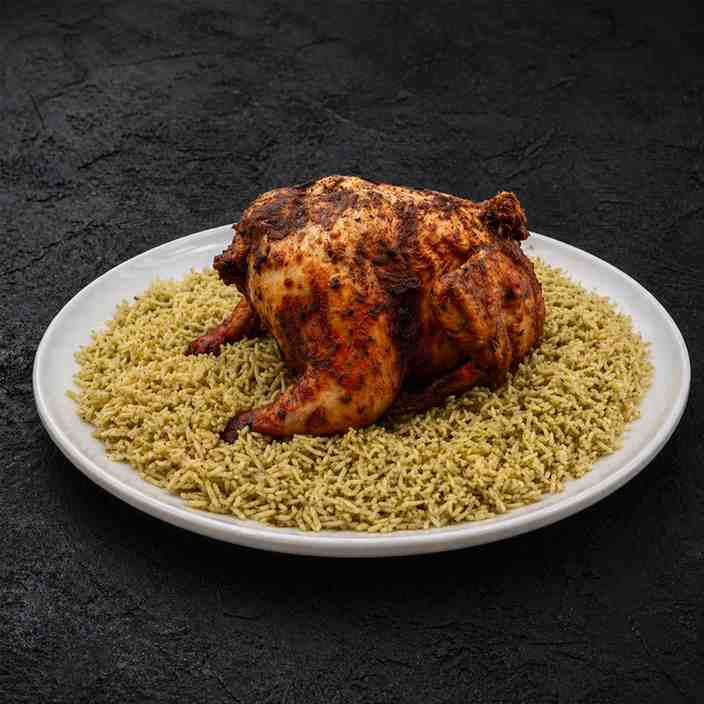
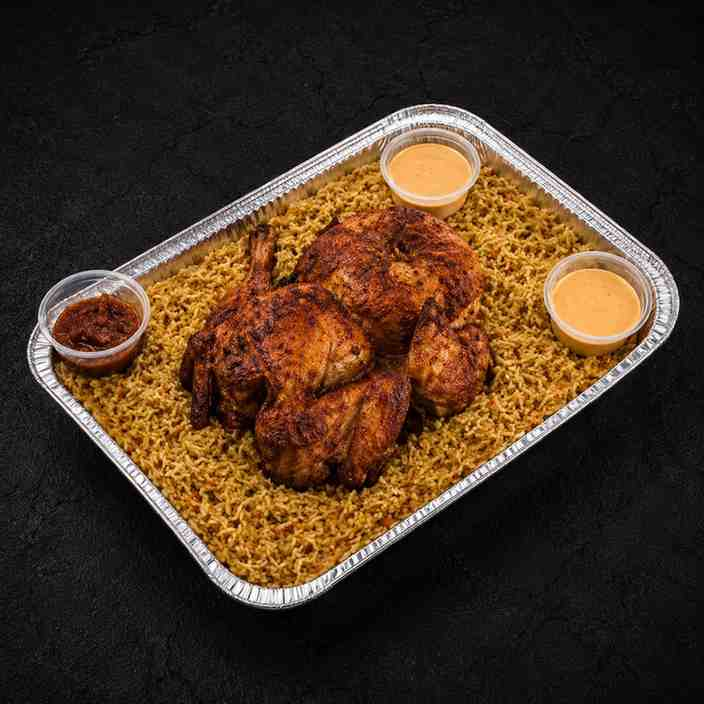
Trigger redeploy

diff --git a/src/pages/Menu.tsx b/src/pages/Menu.tsx
@@ -38,11 +38,12 @@ const isSideTab = (value: string): value is "carb" | "green" =>
 function parseInitialCategory(search: string): string {
   const value = new URLSearchParams(search).get("category");
   if (!value) return "All";
+  if (value === "Family Platters") return "Slow Roasted Chicken";
   // categories is defined later, so hardcode here for initial parse
   const validCategories = [
     "All",
     "Signature Protein Platters",
-    "Family Platters",
+    "Slow Roasted Chicken",
     "Combos",
     "Kids Menu",
     "Salads",
@@ -334,7 +335,7 @@ export default function MenuPage() {
   const categories = [
     "All",
     "Signature Protein Platters",
-    "Family Platters",
+    "Slow Roasted Chicken",
     "Combos",
     "Kids Menu",
     "Salads",

diff --git a/src/lib/menu-data.ts b/src/lib/menu-data.ts
@@ -2,7 +2,7 @@
 import { MenuItem } from "./menu-types";
 
 import { proteinCubeSkewerPlatters } from "./protein-cube-skewer-platter-data.ts";
-import { familyPlatters } from "./family-platters-data";
+import { slowRoastedChicken } from "./slow-roasted-chicken-data";
 import { desserts } from "./desserts-data";
 import { shakesAndJuices } from "./shakes-juices-data";
 import { sidesItems } from "./sides-data";
@@ -12,7 +12,7 @@ import { combosMenu } from "./combos-menu-data";
 /* Grouped Menu data */
 export const menuItemsGrouped: Record<string, MenuItem[]> = {
   "Signature Protein Platters": proteinCubeSkewerPlatters,
-  "Family Platters": familyPlatters,
+  "Slow Roasted Chicken": slowRoastedChicken,
   "Combos": combosMenu,
   "Kids Menu": kidsMenu,
   "Desserts": Object.values(desserts).flat(),

diff --git a/src/lib/blog-data.ts b/src/lib/blog-data.ts
@@ -435,7 +435,7 @@ Yes. Lazzat is available on DoorDash for delivery. And direct food pickup in Bra
 What are good dinner takeaway ideas from Lazzat?
 The platters are the most complete option for dinner. They include rice, salad, and sauce in one order. You can customise them and make your own meal along with your preferred sauce.
 Does Lazzat work well for family takeaway meals?
-It's well-suited to it. The portions are generous, and there's enough variety across the menu for different preferences. For families, they have their signature family platters with chicken and rice options that you can share.
+It's well-suited to it. The portions are generous, and there's enough variety across the menu for different preferences. For families, they have their signature slow roasted chicken platters with chicken and rice options that you can share.
 How do I find the best takeaway food near me in Brampton?
 If you want grilled food and customisable platters, Lazzat on McVean Drive is a consistent option. The full menu is at lazzat.ca, and delivery is available through DoorDash for anyone searching for fast takeaway meals or nearby takeaway in the area.`,
     author: "Lazzat Team",